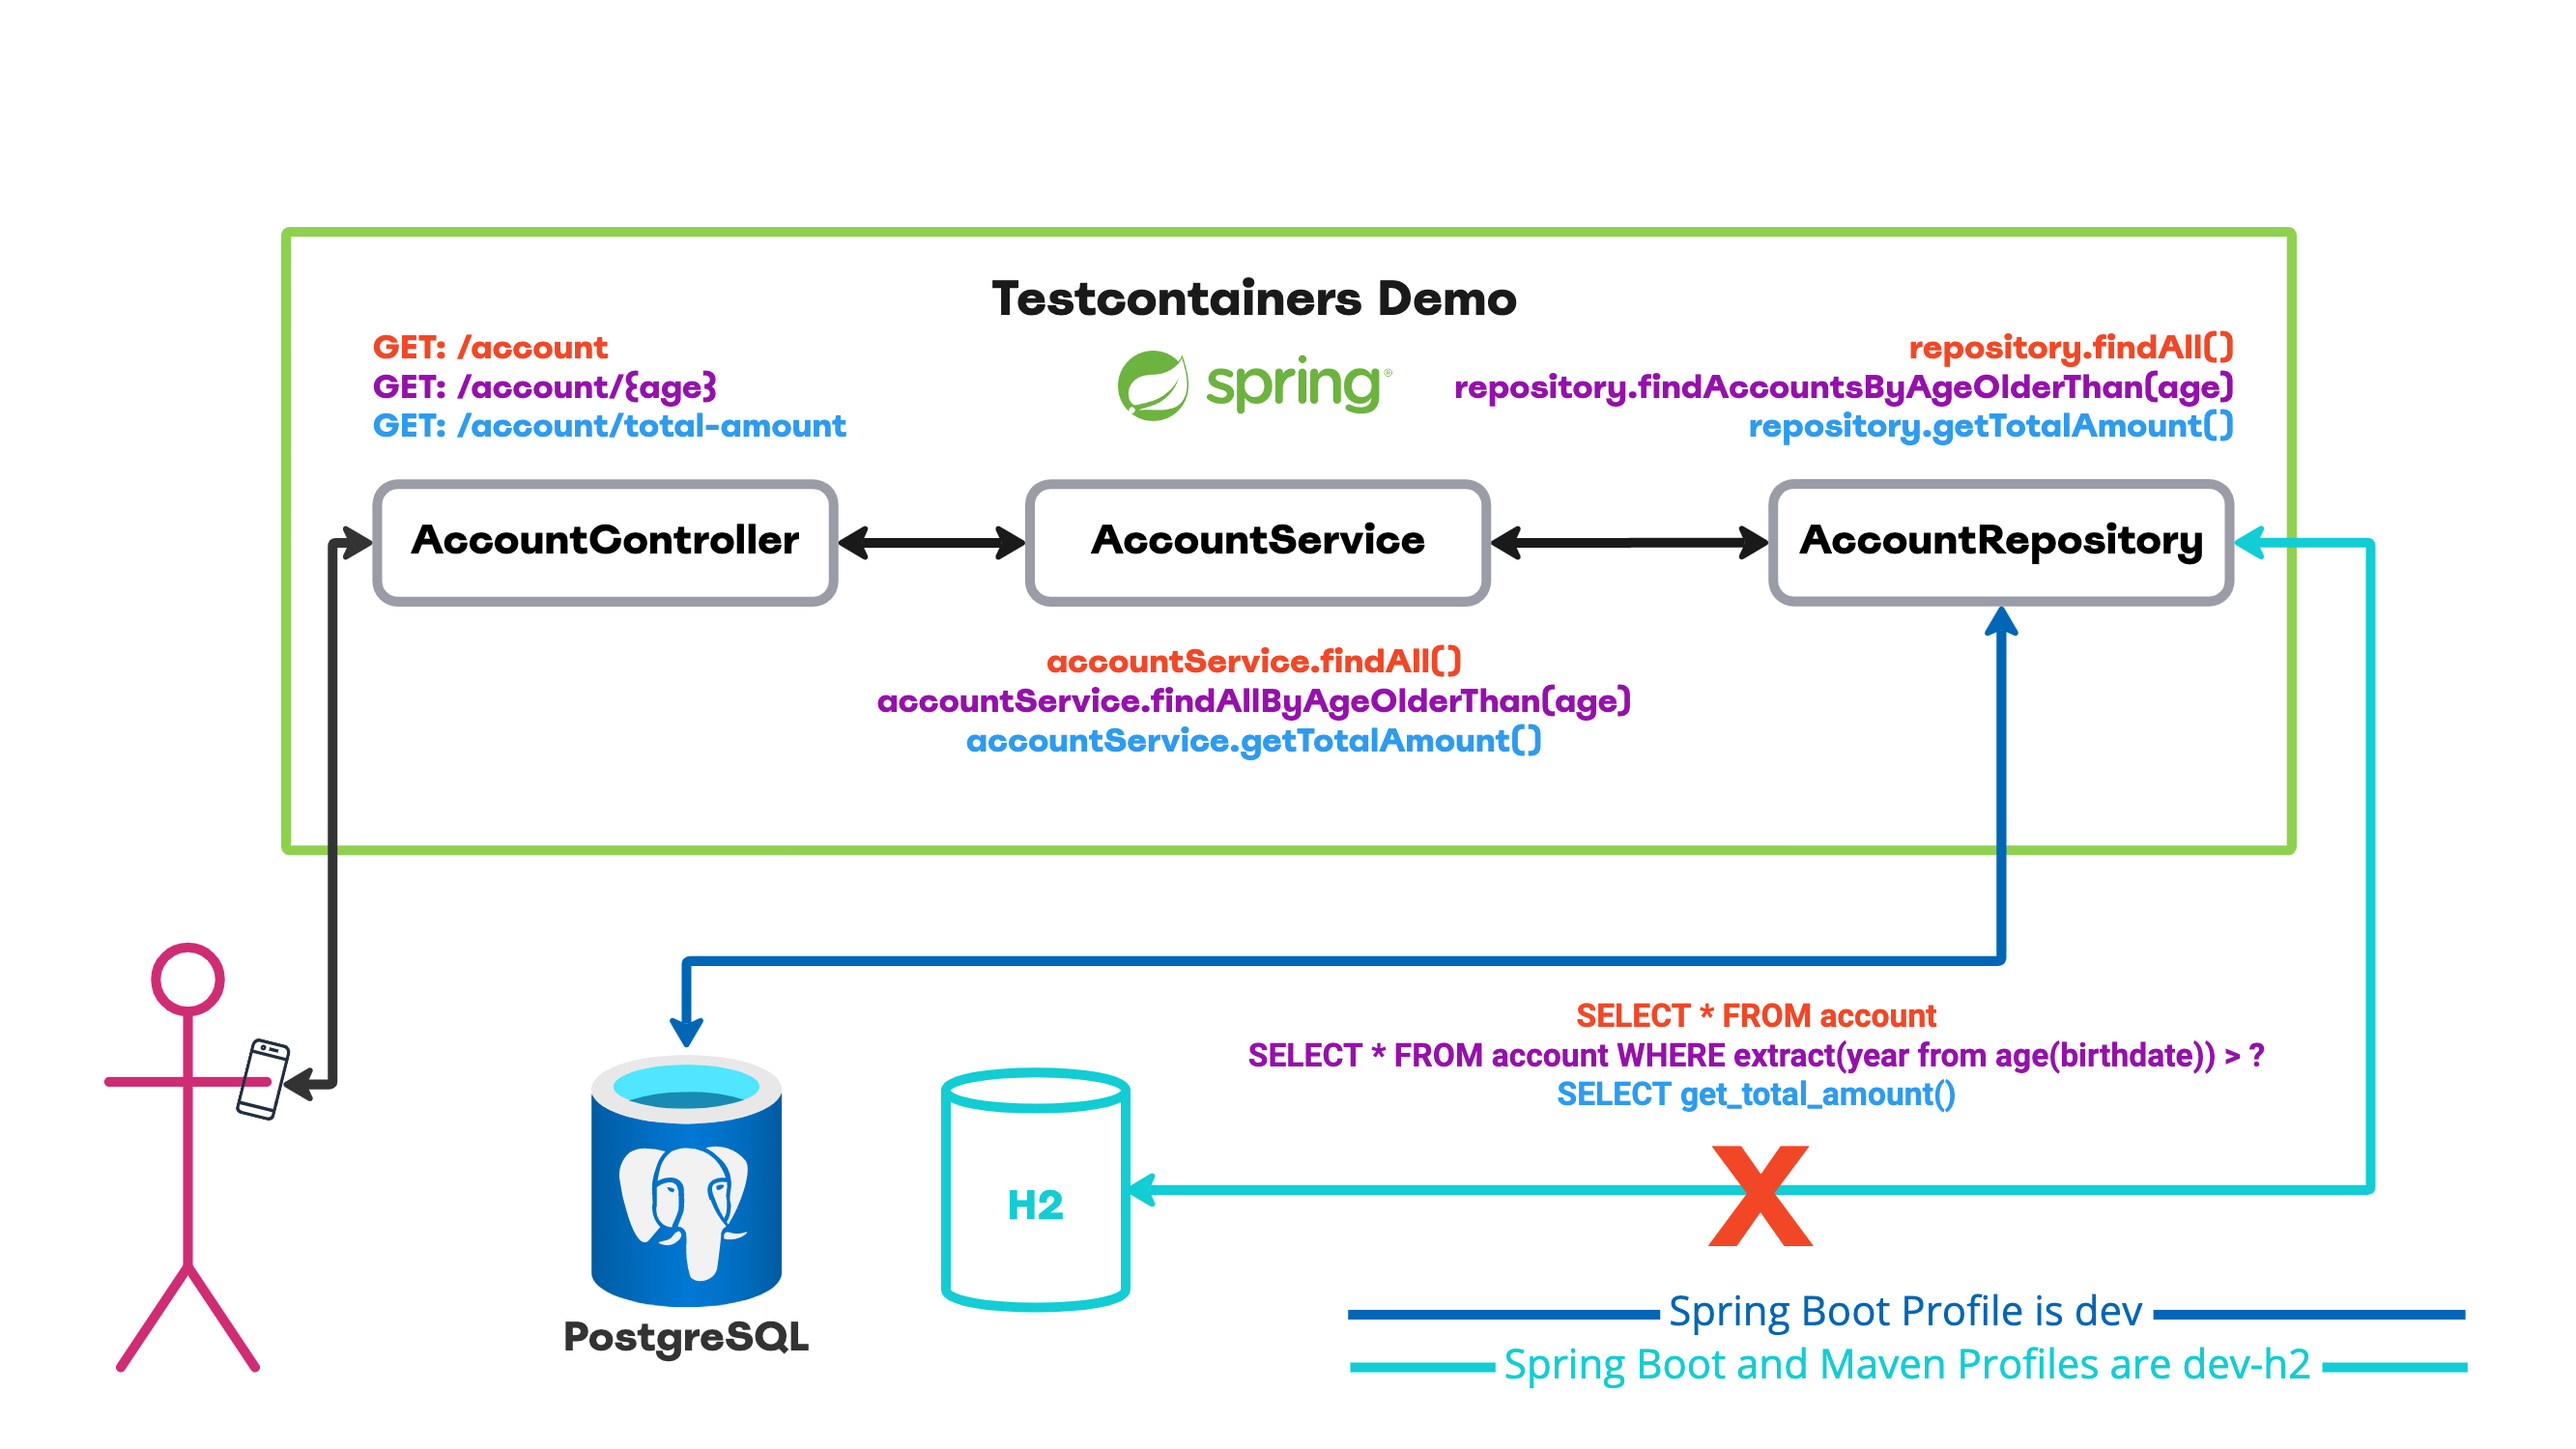
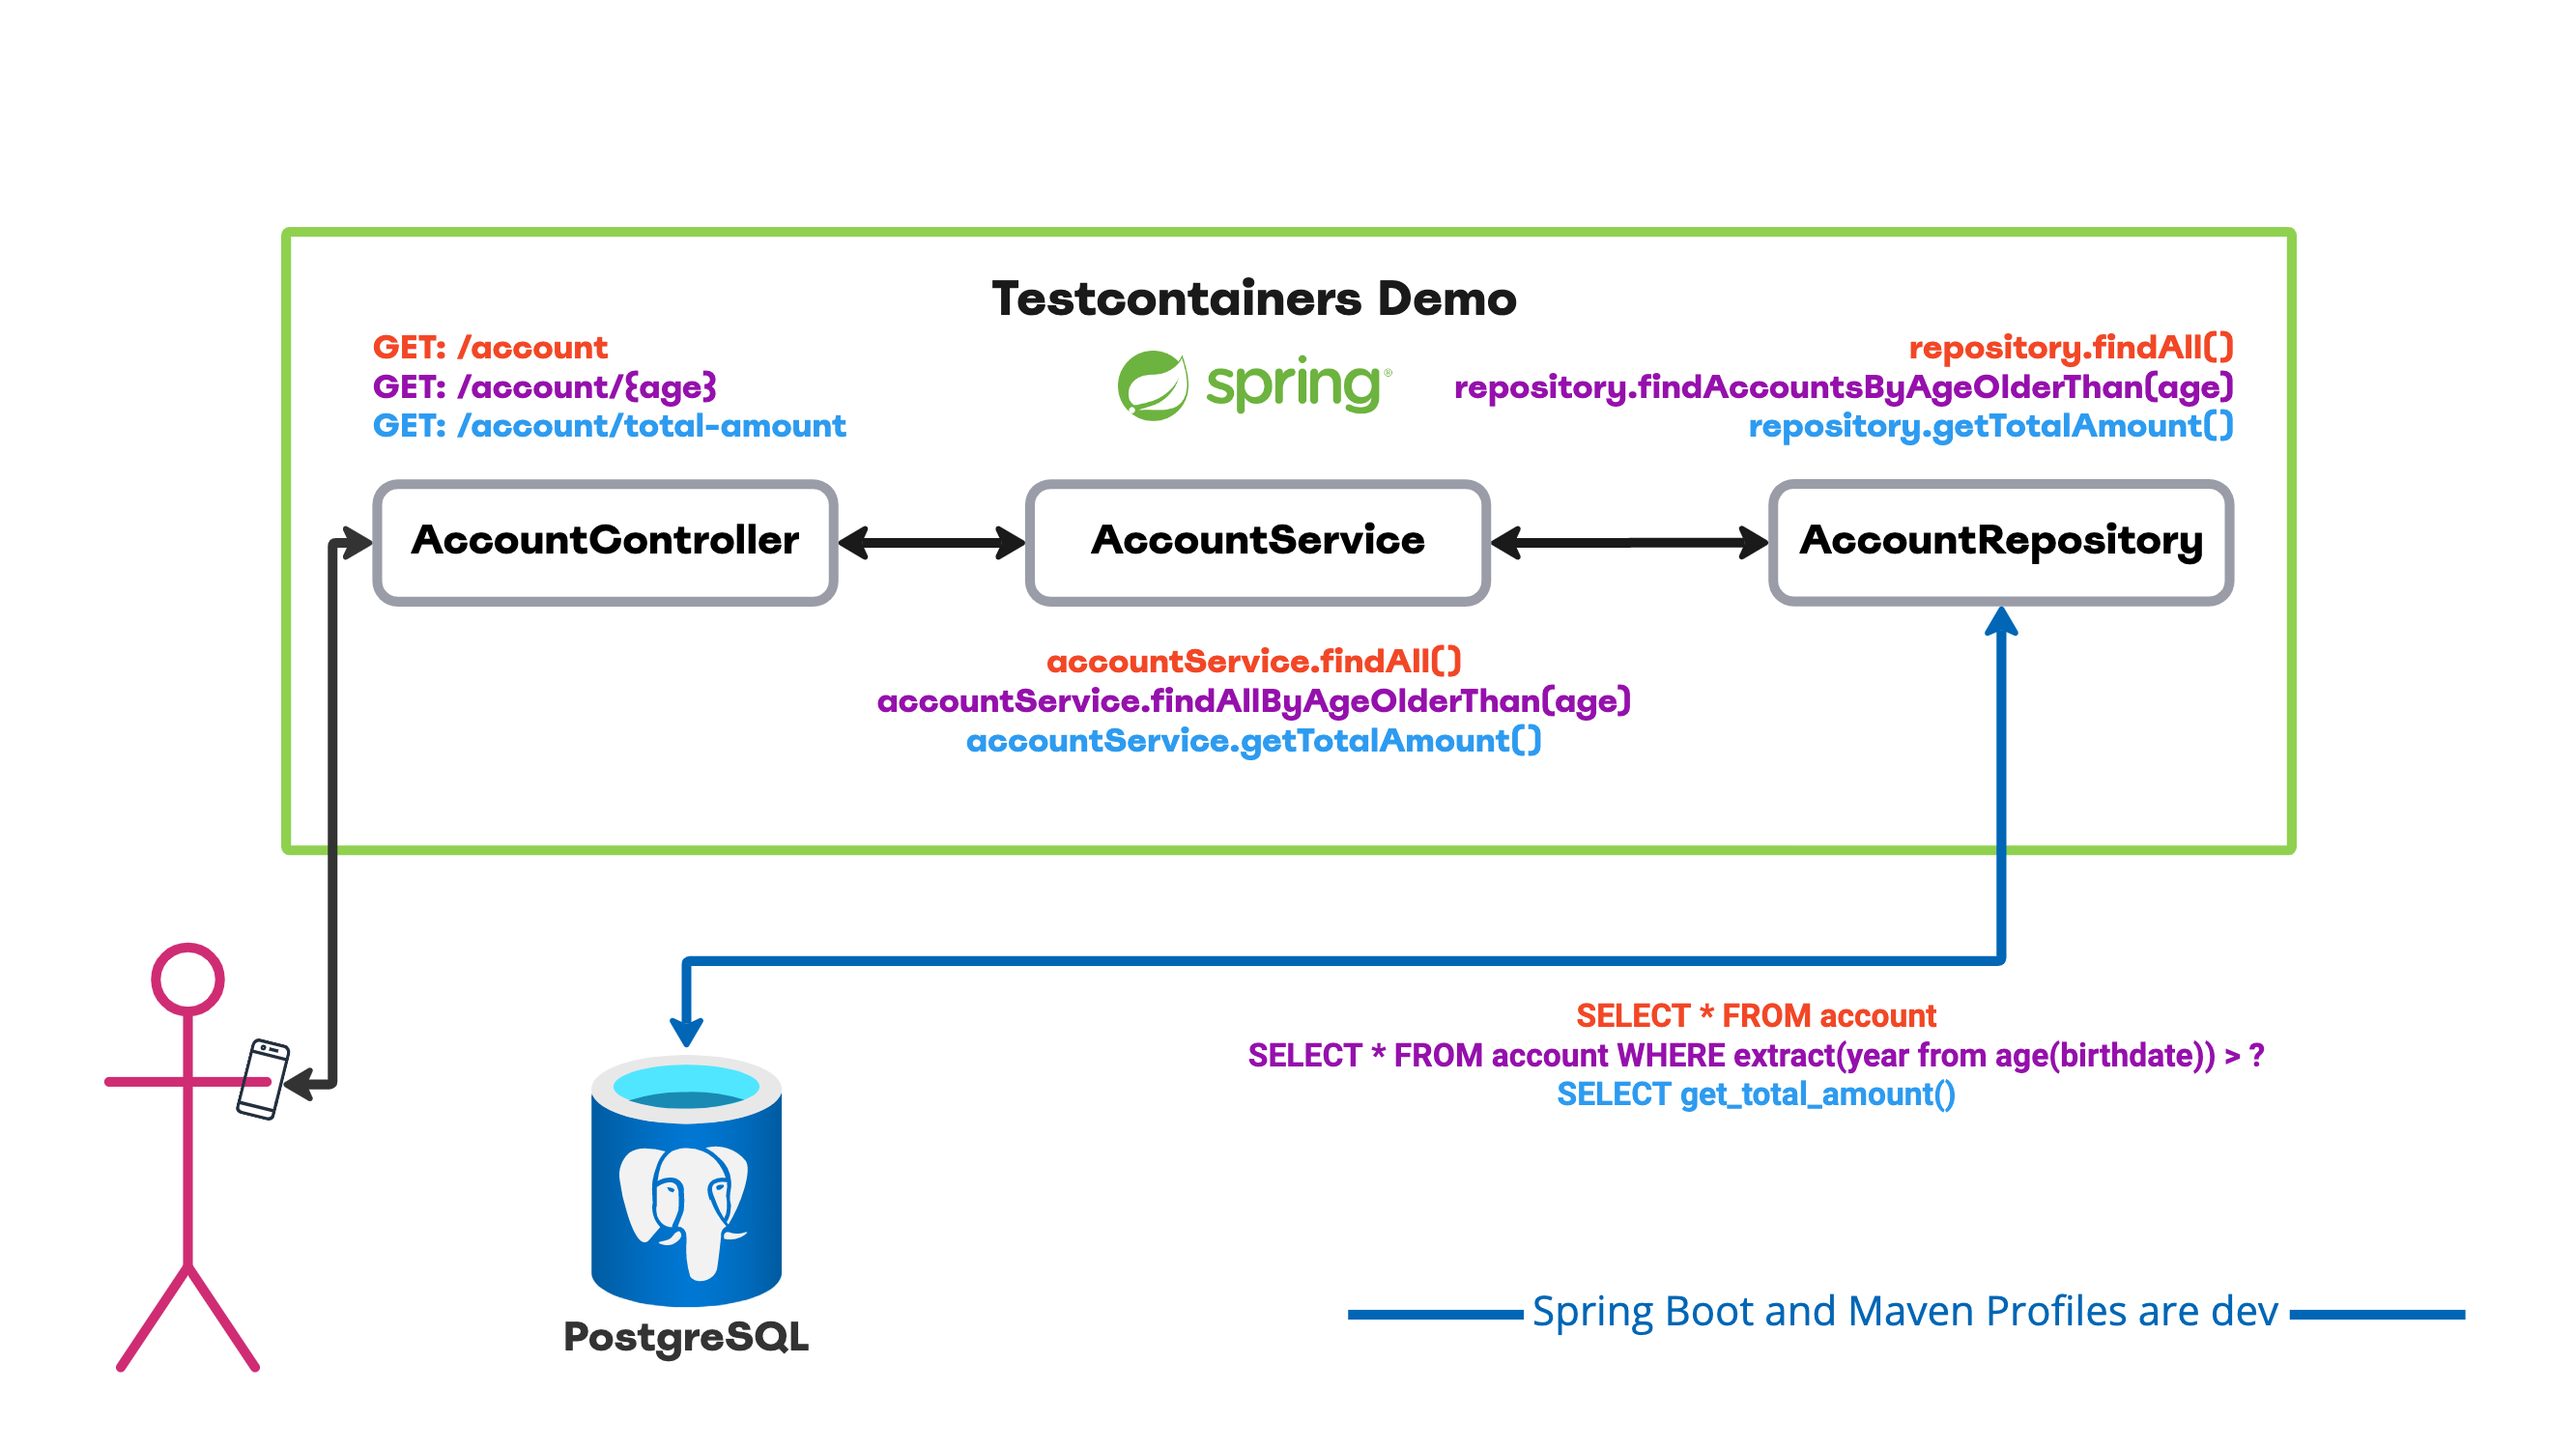
Replace H2 with Testcontainers

Changed region(s): [[0.3425, 0.368, 0.934, 0.8893], [0.5293, 0.8893, 0.9651, 0.9507], [0.3736, 0.8893, 0.4359, 0.92]]

diff --git a/src/test/java/com/github/yusufugurozbek/testcontainersdemo/AccountRepositoryTest.java b/src/test/java/com/github/yusufugurozbek/testcontainersdemo/AccountRepositoryTest.java
@@ -3,6 +3,7 @@ package com.github.yusufugurozbek.testcontainersdemo;
 import org.junit.jupiter.api.Test;
 import org.junit.jupiter.api.extension.ExtendWith;
 import org.springframework.beans.factory.annotation.Autowired;
+import org.springframework.boot.test.autoconfigure.jdbc.AutoConfigureTestDatabase;
 import org.springframework.boot.test.autoconfigure.orm.jpa.DataJpaTest;
 import org.springframework.test.context.ActiveProfiles;
 import org.springframework.test.context.junit.jupiter.SpringExtension;
@@ -16,6 +17,7 @@ import static org.springframework.test.util.AssertionErrors.assertEquals;
 @DataJpaTest
 @ActiveProfiles("test")
 @ExtendWith(SpringExtension.class)
+@AutoConfigureTestDatabase(replace = AutoConfigureTestDatabase.Replace.NONE)
 class AccountRepositoryTest {
 
     @Autowired
